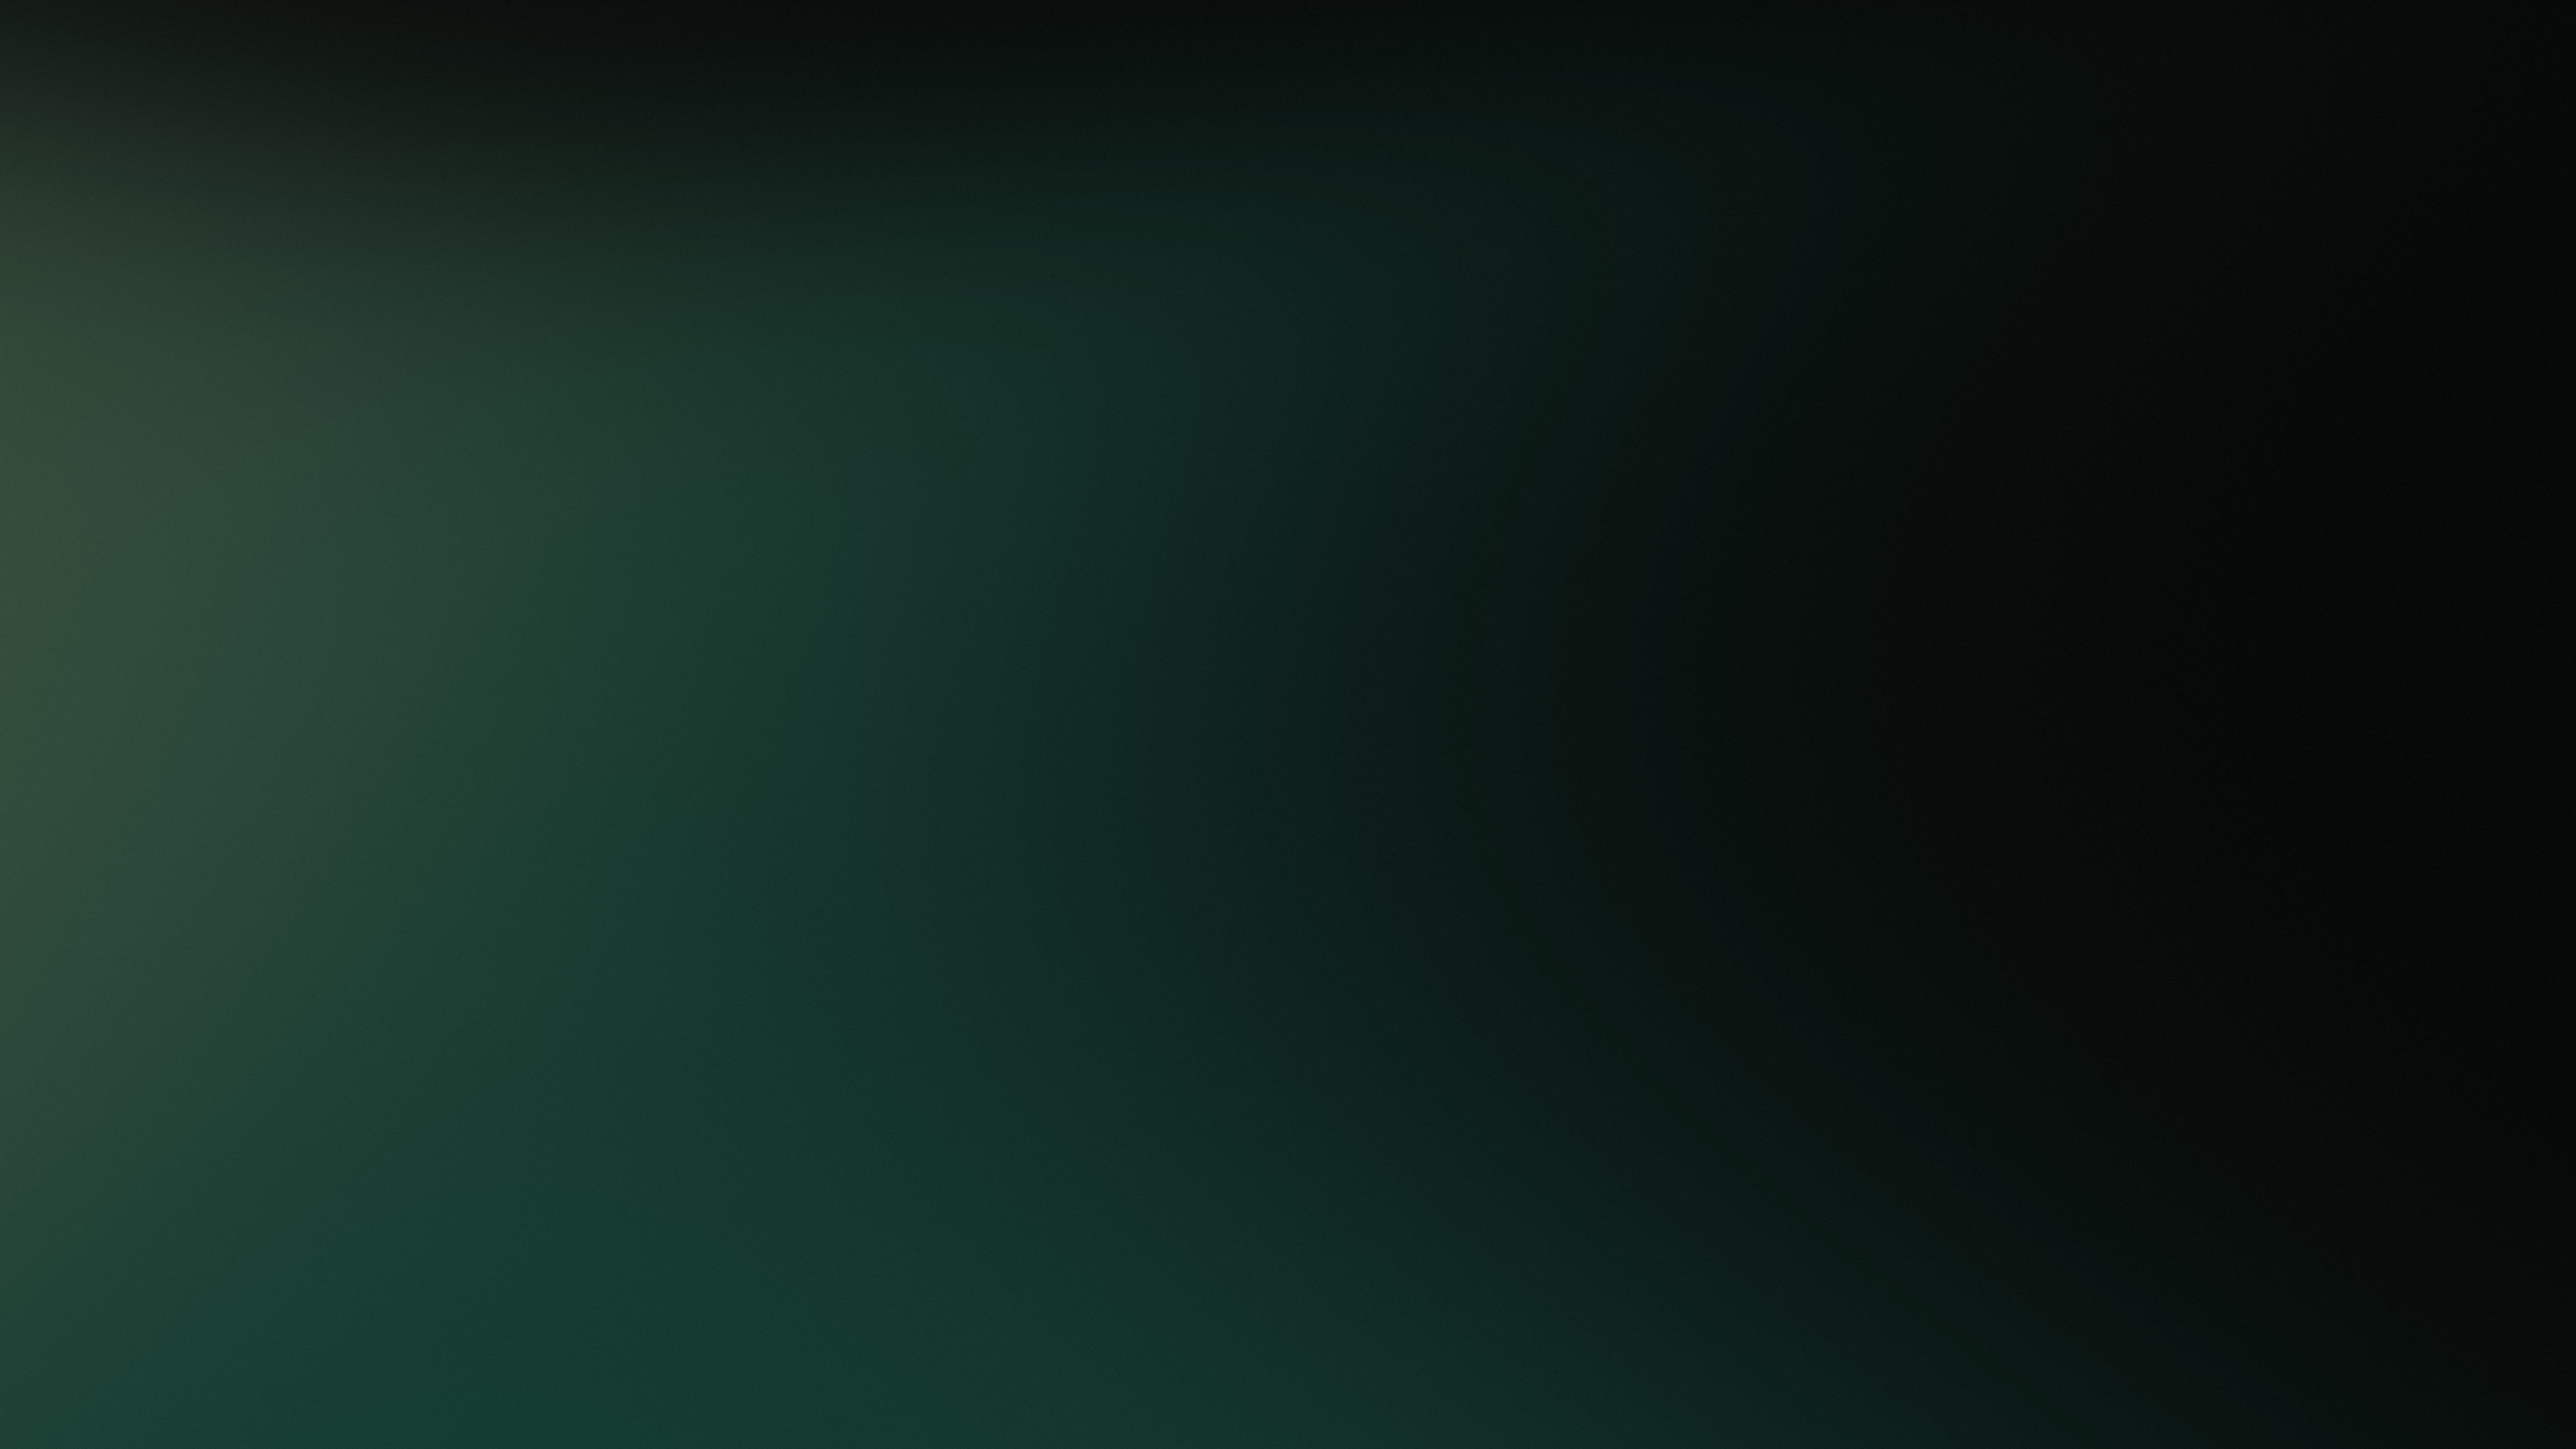
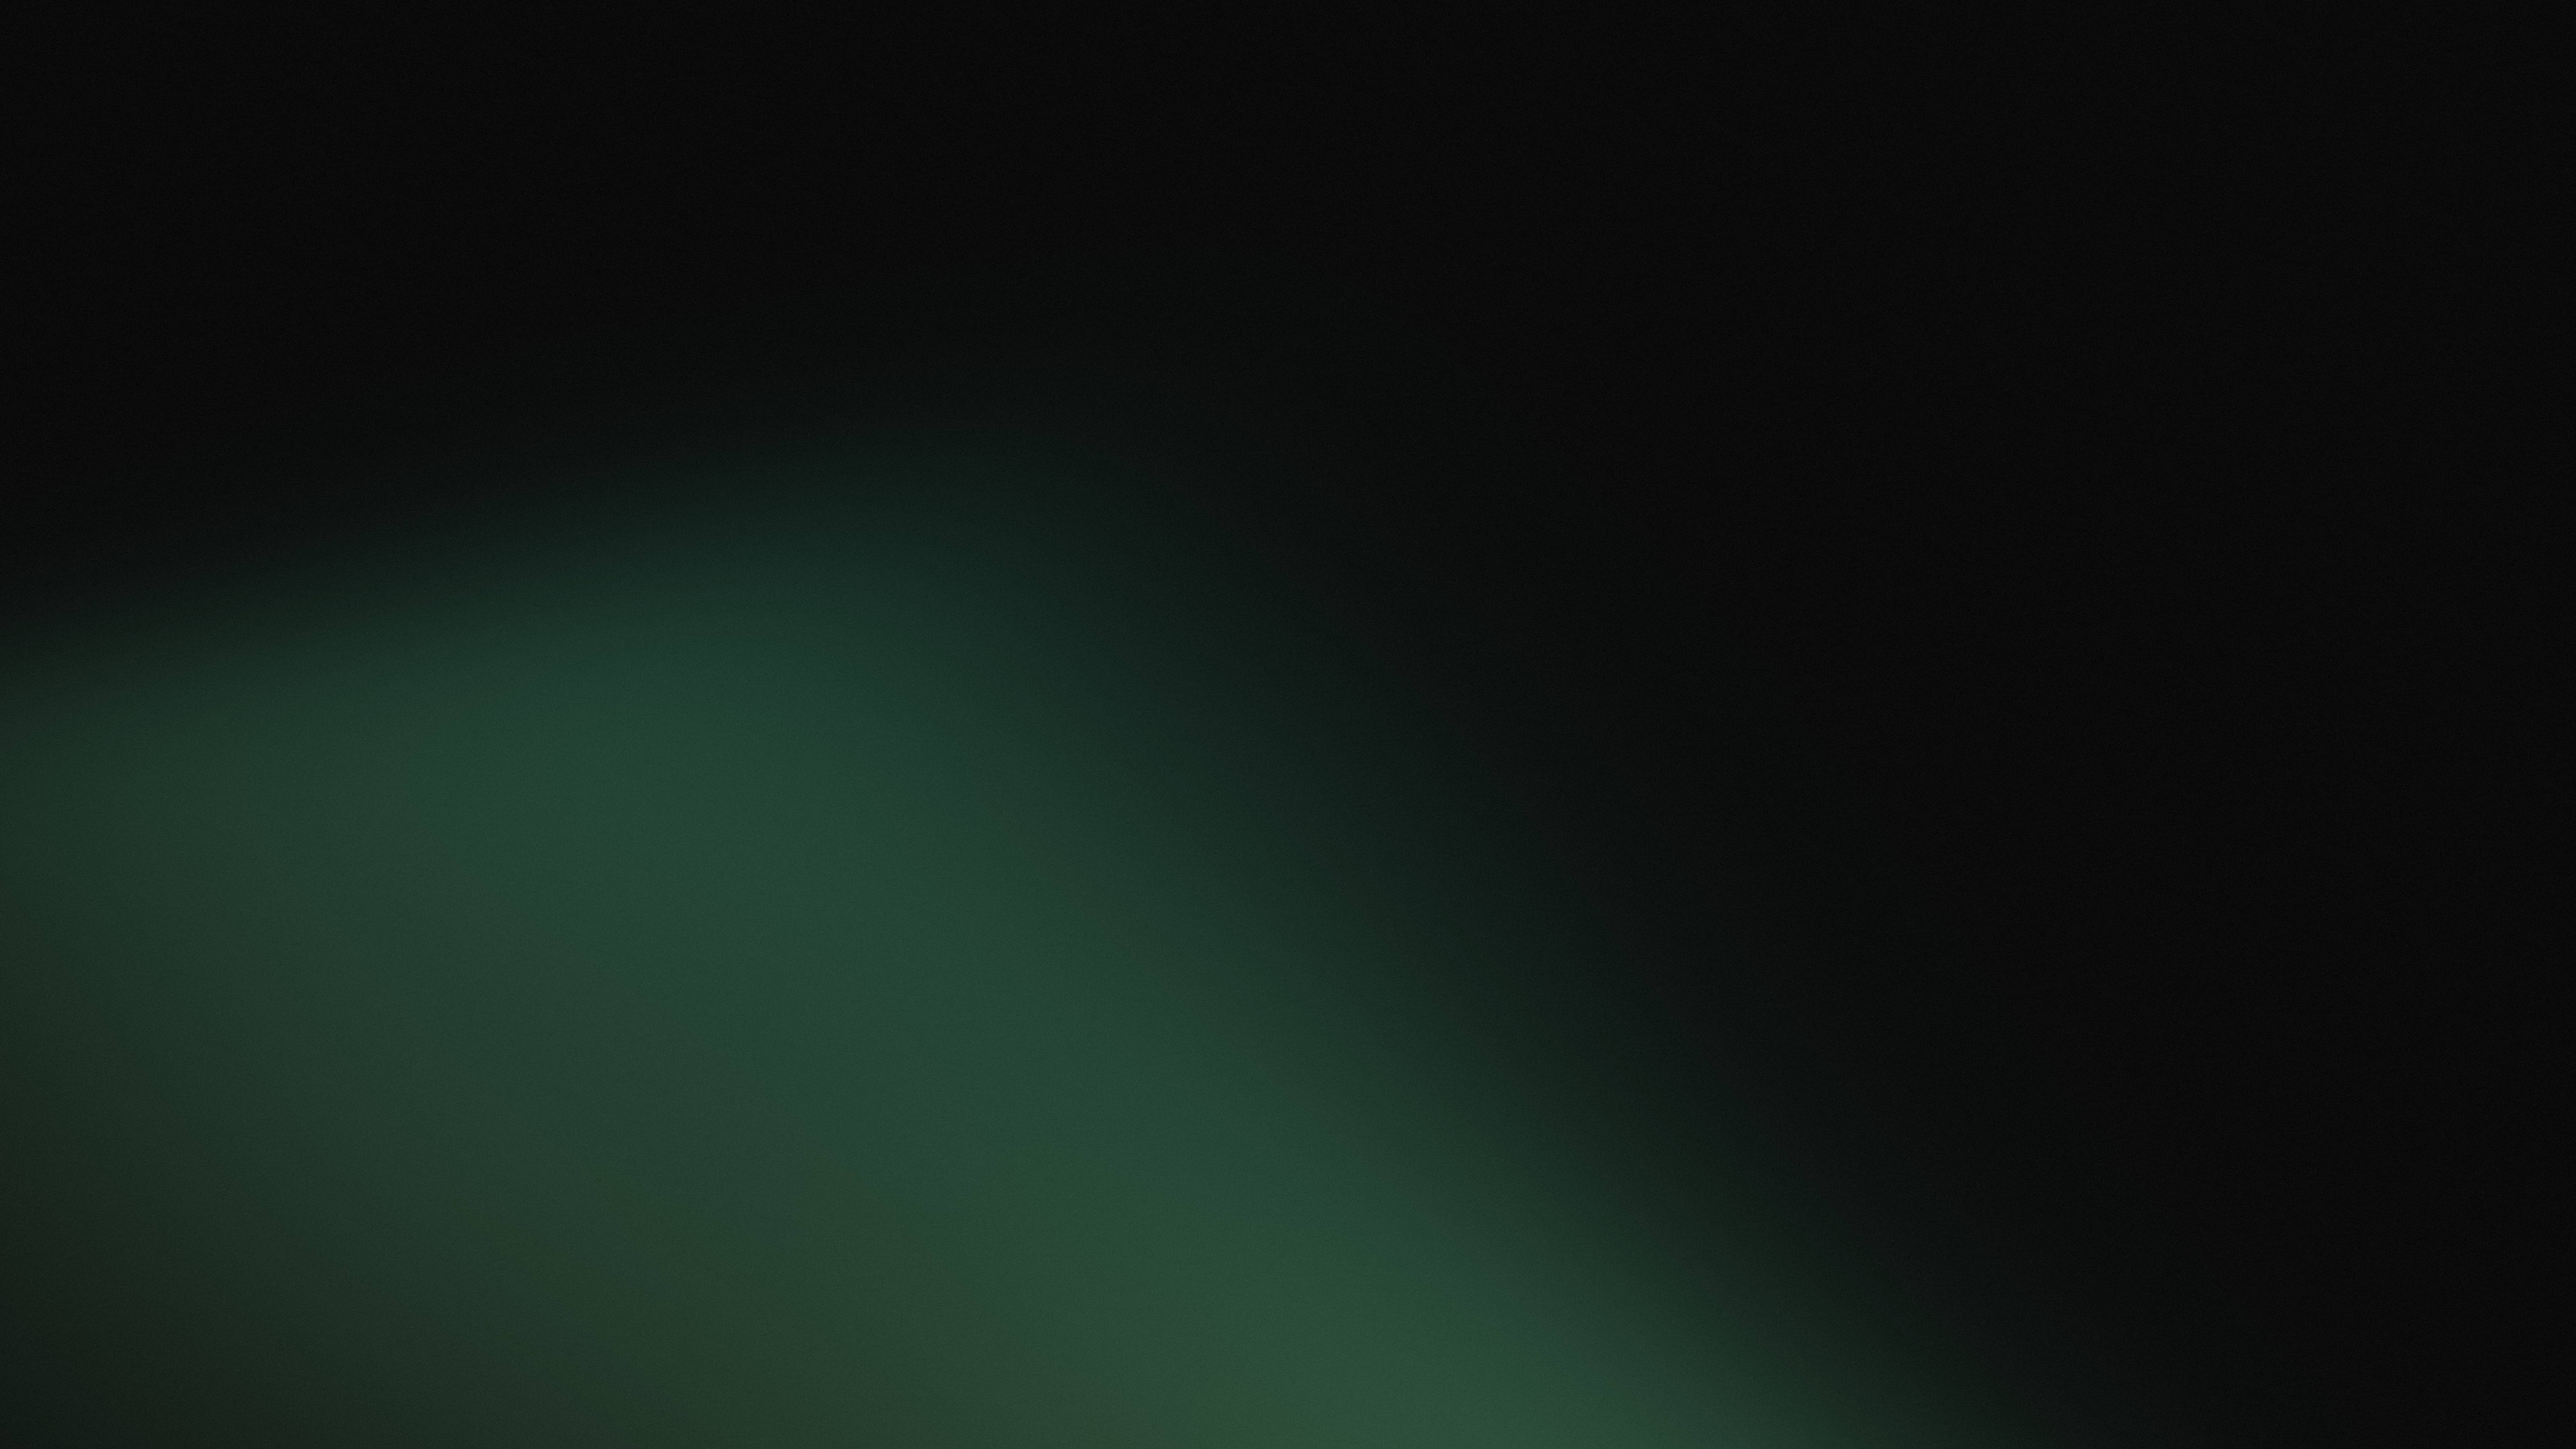
04

Changed region(s): [[0.0, 0.0312, 0.5312, 1.0], [0.375, 0.6562, 0.6875, 1.0]]

diff --git a/src/components/AboutAplick.vue b/src/components/AboutAplick.vue
@@ -1,22 +1,22 @@
 <script setup>
 const features = [
   {
-    icon: 'bi-lightning-fill',
+    icon: '/Rayo.png',
     title: 'Simple y Rápido',
     description: 'Cotiza tu seguro en segundos sin formularios complejos. Tecnología IA que entiende tus necesidades.',
   },
   {
-    icon: 'bi-shield-check',
+    icon: '/Money.webp',
     title: 'Accesible y Confiable',
     description: 'Seguros verificados y regulados. Protección real con transparencia total en cada paso.',
   },
   {
-    icon: 'bi-chat-dots-fill',
+    icon: '/Chat.png',
     title: 'Asistente IA 24/7',
     description: 'Nuestro chatbot inteligente en WhatsApp responde tus preguntas cuando las necesitas.',
   },
   {
-    icon: 'bi-percent',
+    icon: '/Check.png',
     title: 'Mejores Precios',
     description: 'Comparamos opciones para traerte las mejores coberturas al mejor precio del mercado.',
   },
@@ -30,41 +30,55 @@ const features = [
       <div 
         class="rounded-3xl overflow-hidden"
         style="
-          background-image: url('/BgAboutAplick.jpg');
+          background-image: url('/BgAboutAplick01.jpg');
           background-size: cover;
           background-position: center;
           background-repeat: no-repeat;
         "
       >
         <div class="px-6 sm:px-12 lg:px-16 py-16 sm:py-20">
-          <!-- Header Section -->
-          <div class="max-w-3xl mb-16">
-            <p class="text-sm font-medium text-[#f7f7ad] uppercase tracking-widest mb-4">
-              Sobre Aplick
-            </p>
-            <h2 class="text-4xl sm:text-5xl font-black text-white leading-tight mb-6">
-              La tecnología que simplifica los seguros
-            </h2>
-            <p class="text-lg text-white/70 leading-relaxed">
-              APLICK es una plataforma digital que transforma la experiencia de cotizar seguros. Utilizamos inteligencia artificial integrada en WhatsApp para eliminar la complejidad tradicional del mundo de los seguros. Nuestro objetivo es convertir una tarea tediosa en algo simple, rápido y accesible para todos.
-            </p>
+          <!-- Two Column Layout -->
+          <div class="grid grid-cols-1 lg:grid-cols-2 gap-12 items-start mb-12">
+            
+            <!-- Left Column: Content -->
+            <div class="max-w-3xl">
+              <p class="text-sm font-medium text-[#f7f7ad] uppercase tracking-widest mb-4">
+                Sobre Aplick
+              </p>
+              <h2 class="text-4xl sm:text-5xl font-black text-white leading-tight mb-6">
+                La tecnología que simplifica los seguros
+              </h2>
+              <p class="text-lg text-white/70 leading-relaxed">
+                APLICK es una plataforma digital que transforma la experiencia de cotizar seguros. Utilizamos inteligencia artificial integrada en WhatsApp para eliminar la complejidad tradicional del mundo de los seguros. Nuestro objetivo es convertir una tarea tediosa en algo simple, rápido y accesible para todos.
+              </p>
+            </div>
+
+            <!-- Right Column: Empty (para mantener layout) -->
+            <div></div>
           </div>
 
-          <!-- Features Grid - Below Content -->
+          <!-- Features Grid (debajo del texto, full width) -->
           <div class="grid grid-cols-2 md:grid-cols-4 gap-6">
-            <div v-for="(feature, index) in features" :key="index" class="group flex flex-col items-center text-center">
-              <!-- Icon -->
-              <div class="w-12 h-12 rounded-full flex items-center justify-center mb-4 group-hover:scale-110 transition-transform duration-300" style="background: linear-gradient(135deg, #8fcf9a 0%, #195d4c 100%);">
-                <i :class="['bi', feature.icon, 'text-white text-base']"></i>
+            <div v-for="(feature, index) in features" :key="index" class="group relative rounded-2xl p-6 transition-all duration-300 backdrop-blur-xl hover:scale-105 overflow-visible" style="background: rgba(255, 255, 255, 0.05); border: 1px solid rgba(255, 255, 255, 0.1);">
+              <!-- Icon Image (Sobresale arriba) -->
+              <div class="absolute -top-8 left-1/2 -translate-x-1/2 w-16 h-16 flex items-center justify-center z-20 pointer-events-none">
+                <img 
+                  :src="feature.icon" 
+                  :alt="feature.title" 
+                  class="h-full w-full object-contain drop-shadow-lg"
+                />
               </div>
 
-              <!-- Text -->
-              <h3 class="text-sm font-bold text-white mb-2">
-                {{ feature.title }}
-              </h3>
-              <p class="text-white/60 text-xs leading-relaxed">
-                {{ feature.description }}
-              </p>
+              <!-- Content (con espacio arriba para la imagen) -->
+              <div class="flex flex-col items-center text-center pt-6">
+                <!-- Text -->
+                <h3 class="text-sm font-bold text-white mb-2">
+                  {{ feature.title }}
+                </h3>
+                <p class="text-white/60 text-xs leading-relaxed">
+                  {{ feature.description }}
+                </p>
+              </div>
             </div>
           </div>
         </div>

diff --git a/src/components/Marquee.vue b/src/components/Marquee.vue
@@ -12,7 +12,7 @@ withDefaults(defineProps<Props>(), {
 
 <template>
   <div
-    class="group relative w-full py-20"
+    class="group relative w-full py-20 overflow-hidden"
   >
     <div
       class="flex gap-4 animate-marquee whitespace-nowrap"
@@ -23,6 +23,9 @@ withDefaults(defineProps<Props>(), {
     >
       <slot />
       <slot />
+      <slot />
+      <slot />
+      
     </div>
   </div>
 </template>
@@ -33,13 +36,13 @@ withDefaults(defineProps<Props>(), {
     transform: translateX(0);
   }
   to {
-    transform: translateX(calc(-100% - 1rem));
+    transform: translateX(-100%);
   }
 }
 
 @keyframes marquee-reverse {
   from {
-    transform: translateX(calc(-100% - 1rem));
+    transform: translateX(-100%);
   }
   to {
     transform: translateX(0);
@@ -47,12 +50,12 @@ withDefaults(defineProps<Props>(), {
 }
 
 .animate-marquee {
-  animation: marquee 20s linear infinite;
+  animation: marquee linear infinite;
   animation-duration: var(--duration, 20s);
 }
 
 .animate-marquee-reverse {
-  animation: marquee-reverse 20s linear infinite;
+  animation: marquee-reverse linear infinite;
   animation-duration: var(--duration, 20s);
 }
 </style>

diff --git a/src/components/Coberturas.vue b/src/components/Coberturas.vue
@@ -18,7 +18,7 @@ const segurosActuales = () => {
       <div 
         class="rounded-3xl overflow-hidden relative"
         style="
-          background-image: url('/BgCoberturas01.jpg');
+          background-image: url('/BgCoberturas.jpg');
           background-size: cover;
           background-position: center;
           background-repeat: no-repeat;
